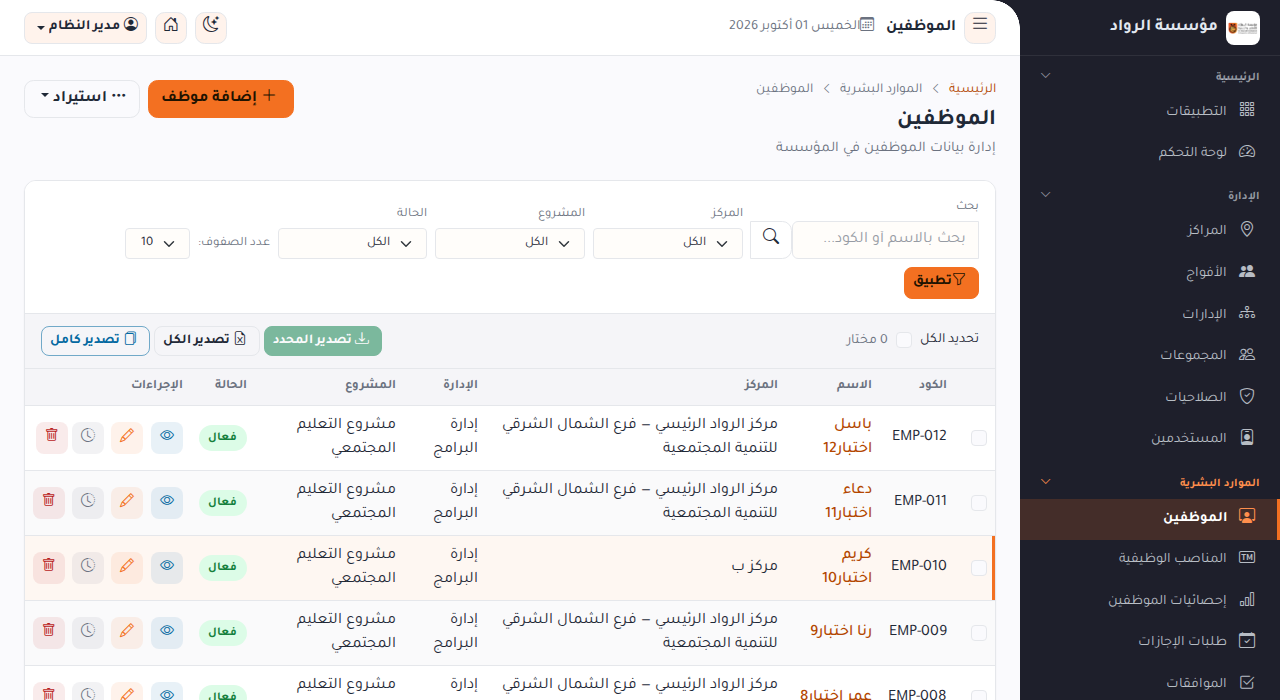
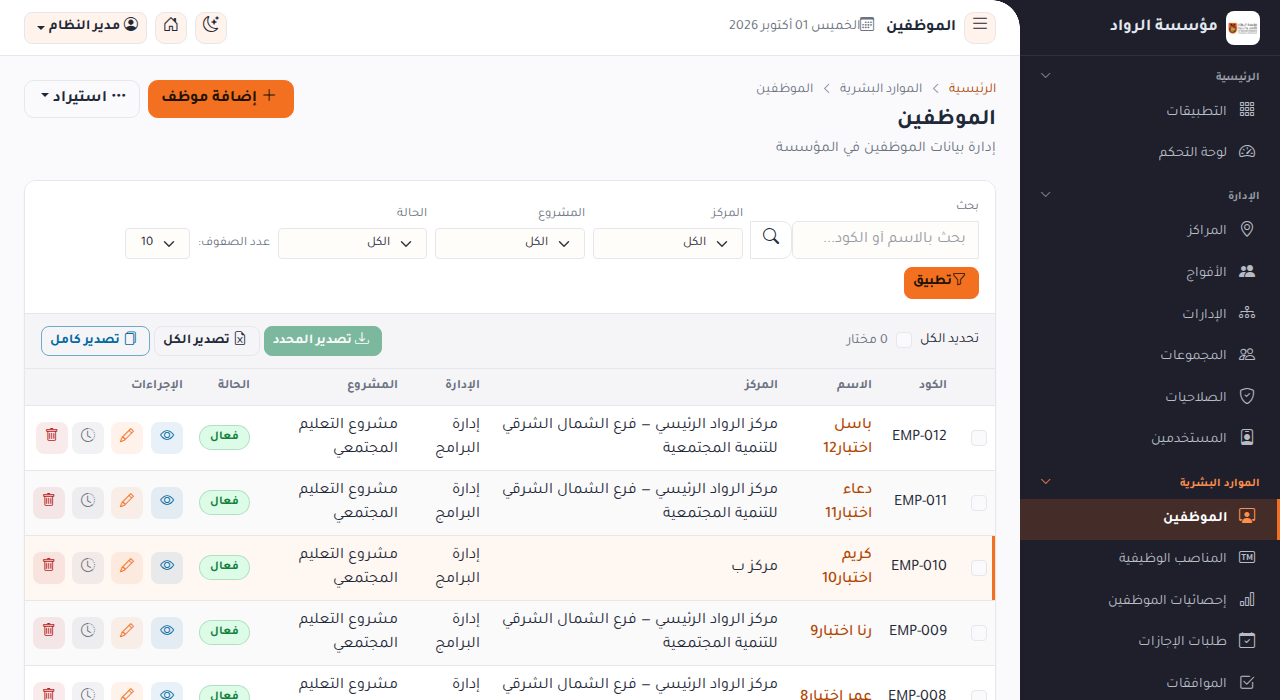
ui: soft pill badges (status-badge and Bootstrap variants), single-row action cells
Claude-Session: https://claude.ai/code/session_01YEgvaTqFsc7FC5gLD8JdMZ

diff --git a/resources/css/app.css b/resources/css/app.css
@@ -1381,3 +1381,35 @@ td form.d-inline .btn-sm { vertical-align: baseline; }
     @keyframes confirm-pop { 0% { transform: scale(0.4); opacity: 0; } 60% { transform: scale(1.12); } 100% { transform: scale(1); opacity: 1; } }
     .confirm-modal.show .confirm-icon { animation: confirm-pop 0.45s 0.08s cubic-bezier(.2,.9,.25,1.2) both; }
 }
+
+/* ---------- الشارات (badges): حبوب ناعمة بلون الدلالة وإطار شفاف خفيف ---------- */
+.badge:not(.position-absolute), .badge-status {
+    --b-tone: var(--status-neutral);
+    --b-bg: var(--status-neutral-bg);
+    border-radius: 999px;
+    font-weight: 700;
+    letter-spacing: 0;
+    line-height: 1.3;
+    box-shadow: inset 0 0 0 1px color-mix(in srgb, var(--b-tone) 22%, transparent);
+}
+.badge:not(.position-absolute) { padding: 0.32em 0.75em; font-size: 0.75rem; }
+.badge-status { padding: 0.3rem 0.7rem; background: var(--b-bg); color: var(--b-tone); }
+.badge-status.is-success { --b-tone: var(--status-success); --b-bg: var(--status-success-bg); }
+.badge-status.is-warning { --b-tone: var(--status-warning); --b-bg: var(--status-warning-bg); }
+.badge-status.is-danger  { --b-tone: var(--status-danger);  --b-bg: var(--status-danger-bg); }
+.badge-status.is-info    { --b-tone: var(--status-info);    --b-bg: var(--status-info-bg); }
+.badge-status.is-brand   { --b-tone: var(--color-primary-text); --b-bg: var(--color-primary-soft); }
+/* شارات Bootstrap الممتلئة تتحوّل إلى ناعمة بنفس دلالة اللون (العدادات المطلقة الموضع تبقى ممتلئة) */
+.badge:not(.position-absolute).bg-success, .badge:not(.position-absolute).bg-success-subtle { --b-tone: var(--status-success); --b-bg: var(--status-success-bg); }
+.badge:not(.position-absolute).bg-danger,  .badge:not(.position-absolute).bg-danger-subtle  { --b-tone: var(--status-danger);  --b-bg: var(--status-danger-bg); }
+.badge:not(.position-absolute).bg-warning, .badge:not(.position-absolute).bg-warning-subtle { --b-tone: var(--status-warning); --b-bg: var(--status-warning-bg); }
+.badge:not(.position-absolute).bg-info,    .badge:not(.position-absolute).bg-info-subtle    { --b-tone: var(--status-info);    --b-bg: var(--status-info-bg); }
+.badge:not(.position-absolute).bg-primary, .badge:not(.position-absolute).bg-primary-subtle { --b-tone: var(--color-primary-text); --b-bg: var(--color-primary-soft); }
+.badge:not(.position-absolute).bg-secondary, .badge:not(.position-absolute).bg-secondary-subtle { --b-tone: var(--status-neutral); --b-bg: var(--status-neutral-bg); }
+.badge:not(.position-absolute):is(.bg-success, .bg-danger, .bg-warning, .bg-info, .bg-primary, .bg-secondary,
+    .bg-success-subtle, .bg-danger-subtle, .bg-warning-subtle, .bg-info-subtle, .bg-primary-subtle, .bg-secondary-subtle) {
+    background-color: var(--b-bg) !important;
+    color: var(--b-tone) !important;
+}
+/* خلية الإجراءات: الأزرار في سطر واحد بدل التفافها في شبكة */
+td:has(> .btn-sm) { white-space: nowrap; }
